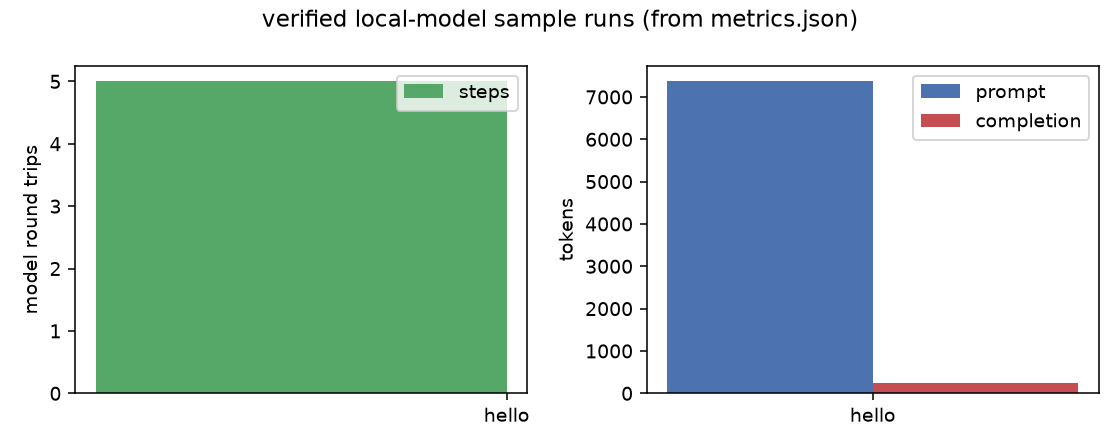
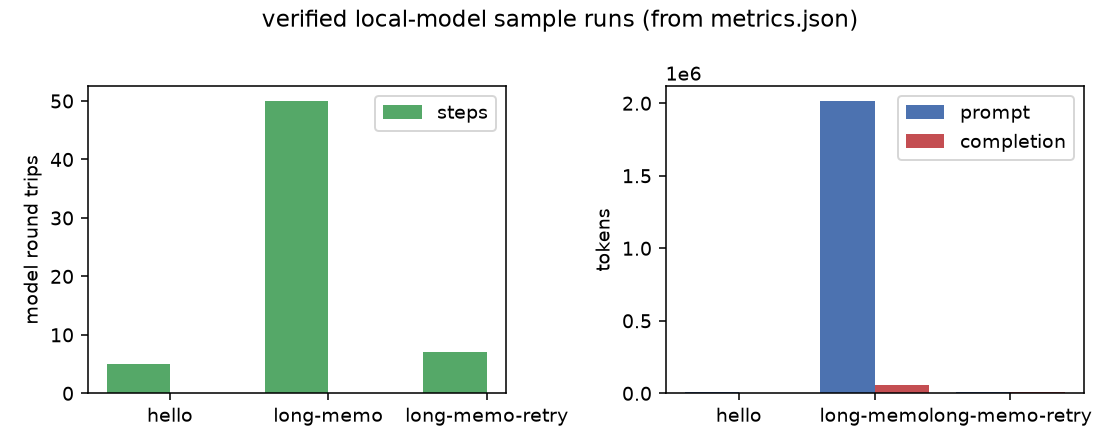
Deliverable verification package

diff --git a/scripts/make_figures.py b/scripts/make_figures.py
@@ -28,7 +28,7 @@ def load(run):
 
 def figure_steps_vs_tokens():
   """Step mix and tool-output volume of a full local replay (long-memo when committed)."""
-  run = "long-memo" if os.path.isdir(os.path.join(ROOT, "runs", "long-memo")) else "hello"
+  run = "long-memo" if os.path.exists(os.path.join(ROOT, "runs", "long-memo", "trajectory.json")) else "hello"
   metrics, traj = load(run)
   steps = traj["steps"]
   model_steps = [i + 1 for i, s in enumerate(steps) if s["source"] == "model"]
@@ -48,7 +48,7 @@ def figure_steps_vs_tokens():
   ax.set_xlabel("tool call #")
   ax.set_ylabel("chars returned to the model")
   ax.set_title(
-      f"hello sample run: {len(model_steps)} model calls,"
+      f"{run} sample run: {len(model_steps)} model calls,"
       f" {len(tool_steps)} exec results,\n{metrics['prompt_tokens']:,} prompt /"
       f" {metrics['completion_tokens']:,} completion tokens"
   )
@@ -63,7 +63,8 @@ def figure_run_costs():
   names, steps, prompt, completion = [], [], [], []
   for run in runs:
     try:
-      m, _ = load(run)
+      with open(os.path.join(ROOT, "runs", run, "metrics.json")) as fh:
+        m = json.load(fh)
     except (FileNotFoundError, KeyError):
       continue
     names.append(run)

diff --git a/WRITEUP_DRAFT.md b/WRITEUP_DRAFT.md
@@ -64,10 +64,11 @@ OpenAI-compatible endpoint you own.
 * **The same sample instructions replayed without Docker** via
   `runner_local.py`, kept as auditable evidence: `runs/hello/` holds the full
   step-by-step trajectory, its metrics and the produced `hello.txt`; the
-  long-memo replay (`runs/long-memo/metrics.json` plus its `run.log`) ran to the
-  50-step budget — 2,015,301 prompt / 58,270 completion tokens over 50 model
-  calls — while the model assembled a multi-part memo. Every figure is read
-  straight from those committed files by `scripts/make_figures.py`.
+  long-memo replay (`runs/long-memo/metrics.json` plus its `run.log`) consumed
+  2,015,301 prompt / 58,270 completion tokens over 50 model round trips while
+  the model assembled the memo in parts, and stopped there without a final
+  message. Every figure is read straight from those committed files by
+  `scripts/make_figures.py`.
 
 ![verified run costs](figures/run_costs.png)
 ![hello tool activity](figures/sample_run_tool_activity.png)
@@ -92,6 +93,14 @@ of running our own endpoint, not a failure of the harness.
   dispatch rule — any function name that is not `exec` routes to the MCP
   client — which cost one extra parameter, one branch, and one test. The
   stage then passed on the first re-run.
+* **A pause is not a finish.** The loop ends on any model message that carries
+  no tool call — that is the "final message" contract. On a long-memo replay the
+  model used such a message to announce *"let me rewrite with explicit
+  dimensional checks"* and stopped after 7 steps, mid-thought, with the memo
+  unwritten. That replay is committed as `runs/long-memo-retry/` (7 model round
+  trips, 11,422 prompt / 7,238 completion tokens) precisely so the failure is
+  visible rather than hidden; the next iteration forces one
+  more round trip when a content-only message does not name a written file.
 * **Gated inputs.** The full dev task inputs live in an auto-gated Hugging
   Face dataset; without a token the files 401. So "runs end-to-end on public
   sample tasks" here means the kit's own smoke stages plus their verbatim

diff --git a/runs/long-memo-retry/final_message.md b/runs/long-memo-retry/final_message.md
@@ -1,0 +1,1 @@
+Several unit errors crept in (my flow helper already returned m³/h, and the pump helper divided again). Let me rewrite with explicit dimensional checks.
